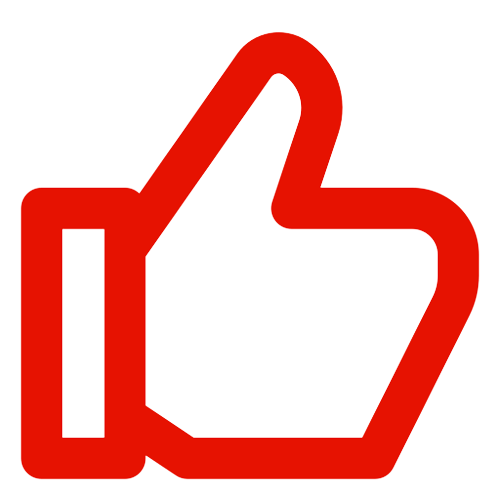
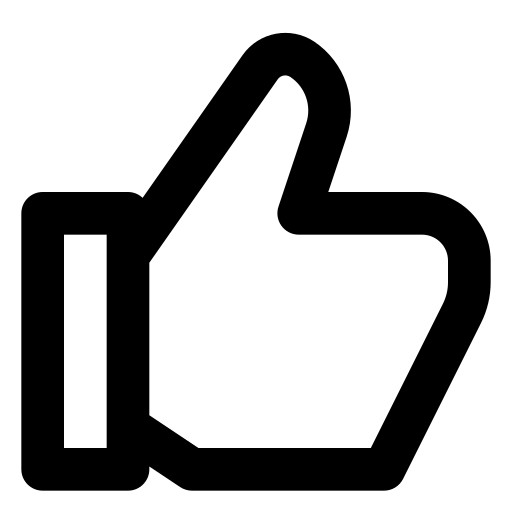
like/0923

Changed region(s): [[0.03, 0.06, 0.96, 0.96]]

diff --git a/src/component/post/PostBox.jsx b/src/component/post/PostBox.jsx
@@ -1,12 +1,16 @@
-import React from 'react';
+import React, { useState } from 'react';
 import { useQuery, useMutation, useQueryClient } from 'react-query';
 import styled from 'styled-components';
 import PropTypes from 'prop-types';
-import ThumbUpIcon from '@mui/icons-material/ThumbUp';
-import ThumbDownIcon from '@mui/icons-material/ThumbDown';
 import { useParams, useNavigate } from 'react-router-dom';
+import EditIcon from '@mui/icons-material/Edit';
+import CancelIcon from '@mui/icons-material/Cancel';
+import DeleteOutlineIcon from '@mui/icons-material/DeleteOutline';
+import emptylike from '../../static/emptylike.png';
+import emptydislike from '../../static/emptydislike.png';
+import like from '../../static/like.png';
+import dislike from '../../static/dislike.png';
 import { postAPI } from '../../shared/api';
-import Button from '../elements/Button';
 import ProfileCard from './ProfileCard';
 import LoadingSpinner from '../elements/LoadingSpinner';
 
@@ -16,7 +20,9 @@ function PostBox() {
     const { data, isLoading } = useQuery(['post', id], () =>
         postAPI.getPost(id),
     );
+
     const postInfo = data?.data.data;
+    console.log(postInfo);
 
     const navigate = useNavigate();
 
@@ -42,6 +48,48 @@ function PostBox() {
     const onPostDelete = () => {
         mutation.mutate(id);
     };
+    // 좋아요
+    const likeposts = async req => {
+        const response = await postAPI.likePost(id, req);
+
+        return response;
+    };
+    const likemutation = useMutation(req => likeposts(req), {
+        onError: error => console.log(error),
+        onSuccess: () => {
+            queryClient.invalidateQueries('post');
+        },
+    });
+
+    const [likes, setLikes] = useState(0);
+
+    const likeHandler = e => {
+        e.preventDefault();
+
+        setLikes(!likes);
+        likemutation.mutate({ likes });
+    };
+
+    // 싫어요
+    const dislikeposts = async req => {
+        const response = await postAPI.dislikePost(id, req);
+        return response;
+    };
+    const dislikemutation = useMutation(req => dislikeposts(req), {
+        onError: error => console.log(error),
+        onSuccess: () => {
+            queryClient.invalidateQueries('post');
+        },
+    });
+
+    const [dislikes, setdisLikes] = useState(0);
+
+    const dislikeHandler = e => {
+        e.preventDefault();
+
+        setdisLikes(!dislikes);
+        dislikemutation.mutate({ dislikes });
+    };
 
     if (isLoading) return <LoadingSpinner />;
     return (
@@ -50,21 +98,23 @@ function PostBox() {
                 <SubHeader>
                     <StockName>{postInfo.stockName}</StockName>
                     <div>
-                        <Deletebutton
+                        <DeleteOutlineIcon
                             name="postDeleteButton"
                             onClick={onPostDelete}
-                        >
-                            삭제
-                        </Deletebutton>
+                        />
 
-                        <Editbutton
+                        <EditIcon
                             name="commentButton"
                             onClick={() => {
                                 navigate(`/boardedit/${id}`);
                             }}
-                        >
-                            수정
-                        </Editbutton>
+                        />
+                        <CancelIcon
+                            name="cancelButton"
+                            onClick={() => {
+                                navigate('/CommunityBoard');
+                            }}
+                        />
                     </div>
                     <PostInfoBox>
                         <ViewCount>조회 수 : 0</ViewCount>
@@ -85,17 +135,28 @@ function PostBox() {
             </ContentWrapper>
             <LikeToggleBox>
                 <Buttons>
-                    <Button>
-                        <LikeBox>
-                            <ThumbUpIcon />
-                        </LikeBox>
-                    </Button>
-                    <LikeCount>{postInfo.dislikes + postInfo.likes}</LikeCount>
-                    <Button variant="error">
-                        <LikeBox>
-                            <ThumbDownIcon />
-                        </LikeBox>
-                    </Button>
+                    {likes ? (
+                        <JoinBtn src={like} onClick={e => likeHandler(e)} />
+                    ) : (
+                        <JoinBtn
+                            src={emptylike}
+                            onClick={e => likeHandler(e)}
+                        />
+                    )}
+
+                    <LikeCount>{postInfo.likes}</LikeCount>
+                    {dislikes ? (
+                        <JoinBtn
+                            src={dislike}
+                            onClick={e => dislikeHandler(e)}
+                        />
+                    ) : (
+                        <JoinBtn
+                            src={emptydislike}
+                            onClick={e => dislikeHandler(e)}
+                        />
+                    )}
+                    <LikeCount>{postInfo.dislikes}</LikeCount>
                 </Buttons>
             </LikeToggleBox>
         </StylePostBox>
@@ -215,30 +276,33 @@ const LikeCount = styled.div`
     letter-spacing: -1px;
     padding-top: 10px;
 `;
-
-const LikeBox = styled.div``;
-
-const Editbutton = styled.button`
-    width: 90px;
-    height: 30px;
-    background-color: #ffffff;
-    border: 1px solid #79a7ca;
-    border-radius: 5px;
-    box-shadow: rgba(50, 50, 93, 0.25) 0px 6px 12px -2px,
-        rgba(0, 0, 0, 0.3) 0px 3px 7px -3px;
-    &:hover {
-        background-color: #b2dbf4;
-    }
+const JoinBtn = styled.img`
+    width: 30px;
 `;
-const Deletebutton = styled.button`
-    width: 90px;
-    height: 30px;
-    background-color: #ffffff;
-    border: 1px solid #79a7ca;
-    border-radius: 5px;
-    box-shadow: rgba(50, 50, 93, 0.25) 0px 6px 12px -2px,
-        rgba(0, 0, 0, 0.3) 0px 3px 7px -3px;
-    &:hover {
-        background-color: #b2dbf4;
-    }
-`;
+
+// const LikeBox = styled.div``;
+
+// const Editbutton = styled.button`
+//     width: 90px;
+//     height: 30px;
+//     background-color: #ffffff;
+//     border: 1px solid #79a7ca;
+//     border-radius: 5px;
+//     box-shadow: rgba(50, 50, 93, 0.25) 0px 6px 12px -2px,
+//         rgba(0, 0, 0, 0.3) 0px 3px 7px -3px;
+//     &:hover {
+//         background-color: #b2dbf4;
+//     }
+// `;
+// const Deletebutton = styled.button`
+//     width: 90px;
+//     height: 30px;
+//     background-color: #ffffff;
+//     border: 1px solid #79a7ca;
+//     border-radius: 5px;
+//     box-shadow: rgba(50, 50, 93, 0.25) 0px 6px 12px -2px,
+//         rgba(0, 0, 0, 0.3) 0px 3px 7px -3px;
+//     &:hover {
+//         background-color: #b2dbf4;
+//     }
+// `;

diff --git a/src/shared/api.js b/src/shared/api.js
@@ -32,9 +32,9 @@ export const postAPI = {
     deletePost: postId => api.delete(`/auth/post/${postId}`),
     putPost: (postId, request) => api.put(`/auth/post/${postId}`, request),
     likePost: (postId, request) =>
-        api.put(`/auth/post/like/${postId}`, request),
+        api.post(`/auth/post/like/${postId}`, request),
     dislikePost: (postId, request) =>
-        api.put(`/auth/post/dislike/${postId}`, request),
+        api.post(`/auth/post/dislike/${postId}`, request),
 };
 
 export const commentAPI = {
